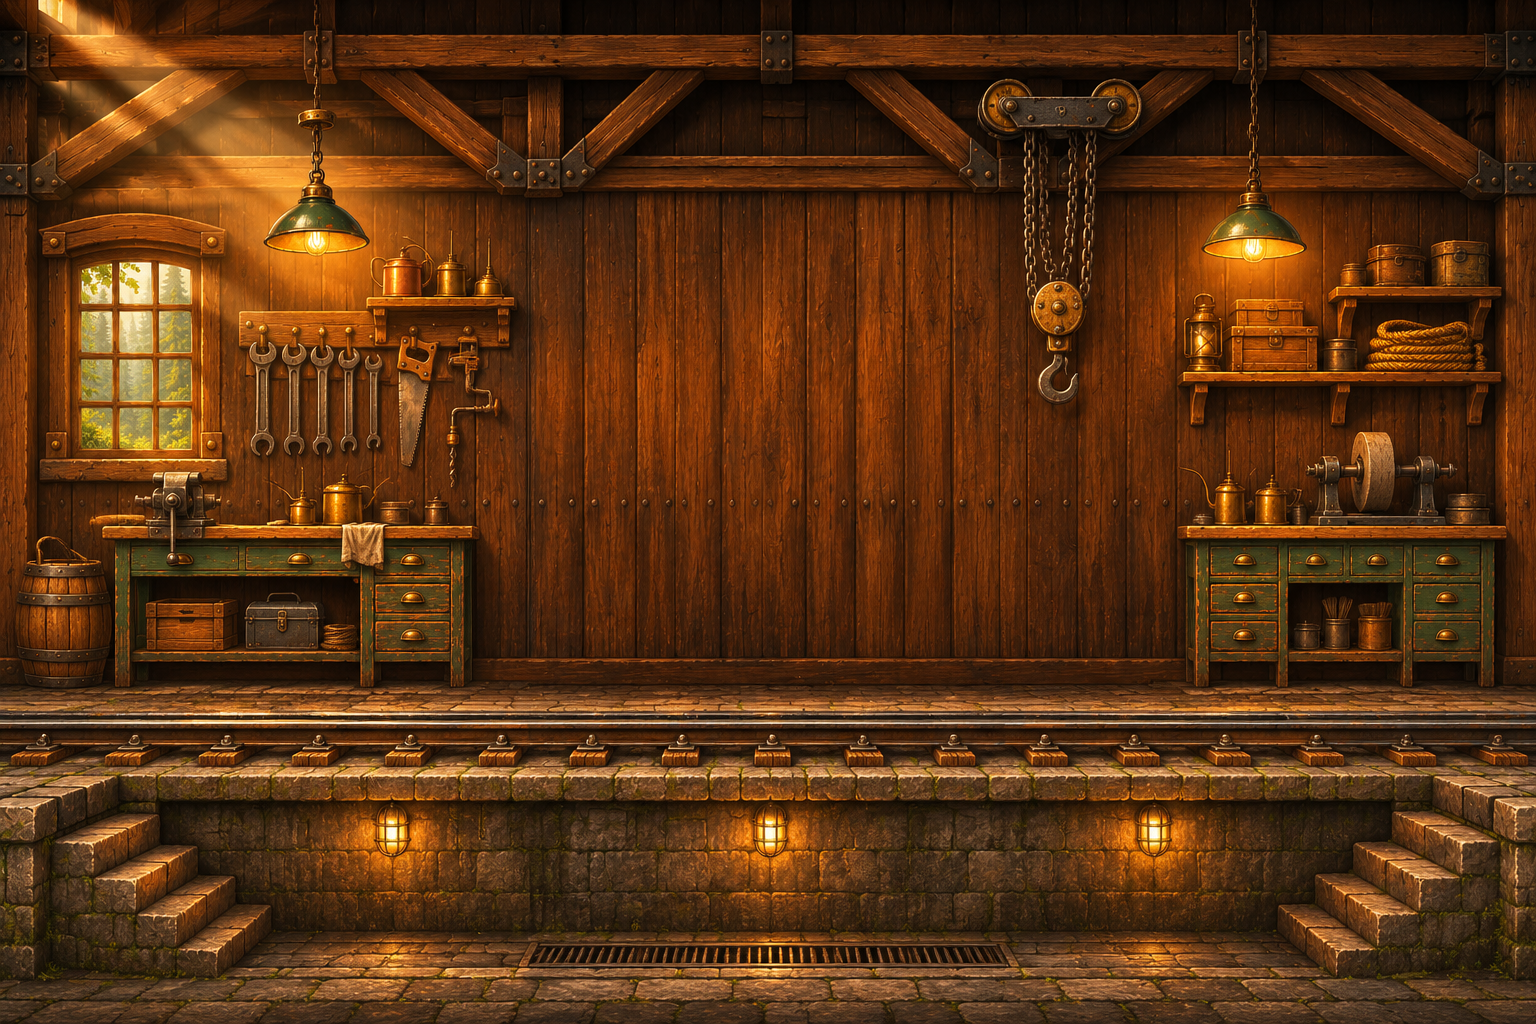
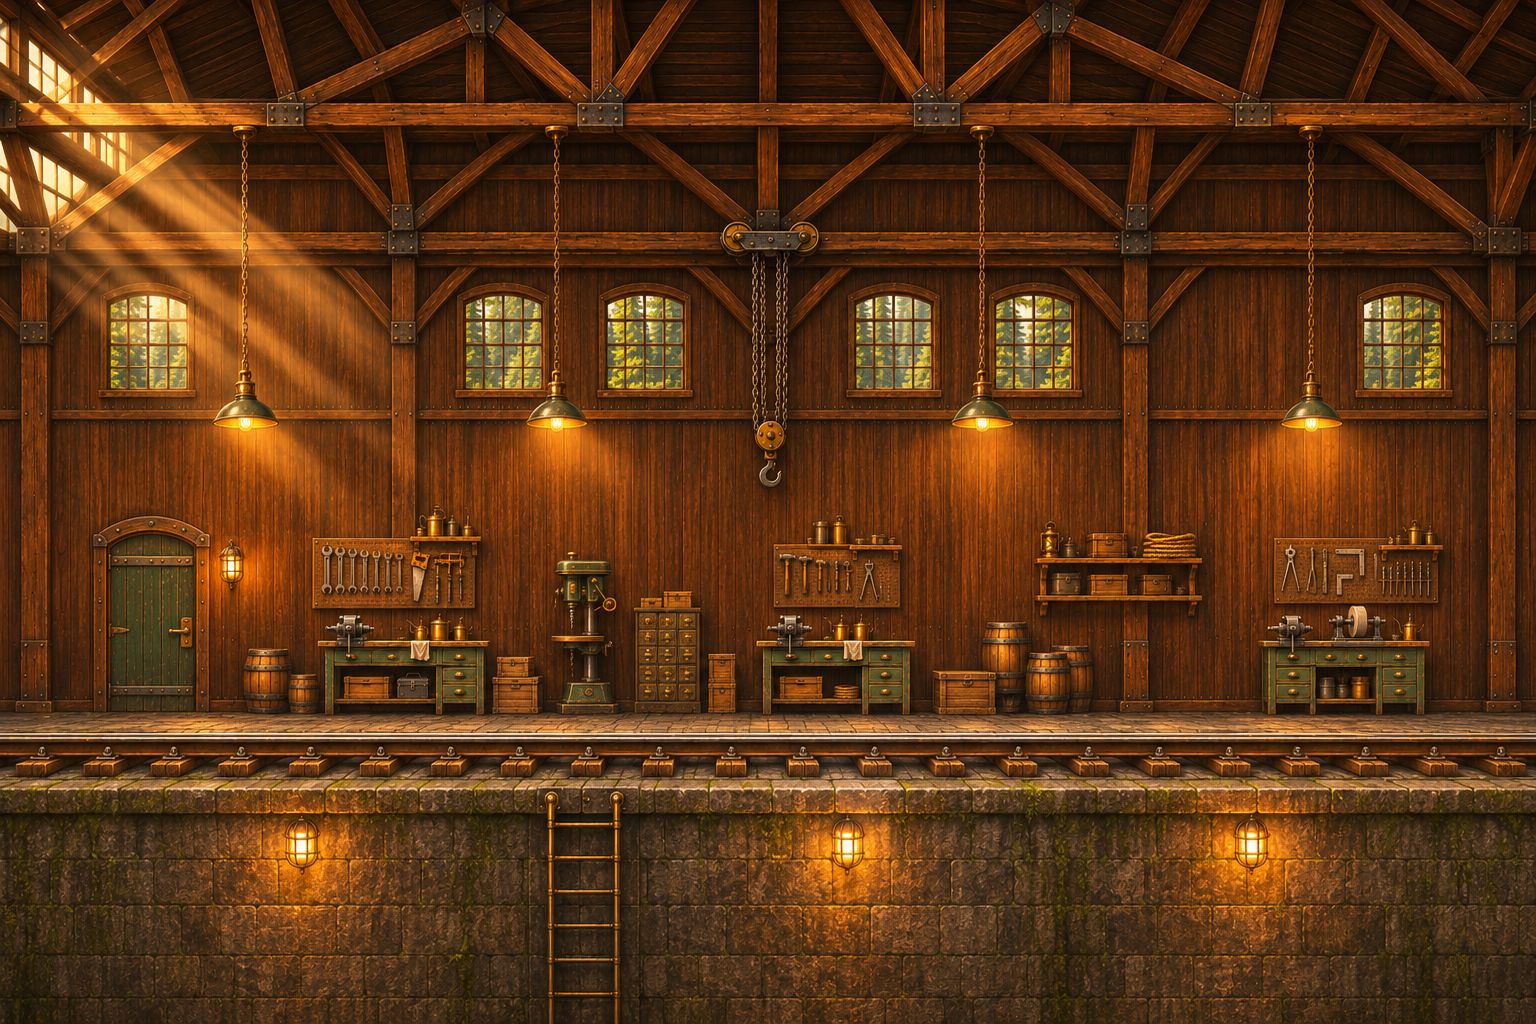
Мастерская и магазин на арте П25 в масштабе поезда (картинка 17 м, верстак 1,8 м, рельсы на 73,5%)

diff --git a/tools/art_sources/ART_QUEUE.md b/tools/art_sources/ART_QUEUE.md
@@ -44,5 +44,5 @@ Never draw letters, numbers or readable text on the images. Never draw the card 
 | P22 | Result screen of a trip: an empty waybill on a board, two stamp prints (on time / late), coins (small stack, big pile with a bag), a 3x3 sheet of small medals, a narrow evening platform banner; no letters | DONE (accepted 14.11; connected: the result screen, assets/art_result/) | tools/art_sources/briefs/P22_result_screen/TASK_FOR_GPT.md | tools/art_sources/inbox/P22_result_screen/ |
 | P23 | Junction yard «Узловая Лесная» (owner's concept): the yard by day and by evening in the same layout (Depot, Workshop, Shop, Casino with blank signs, a straight empty track across), the workshop interior with a pit, the shop interior with a display track, a 2x2 sheet of place icons; no letters, no trains | DONE (accepted 14.11; connecting on the branch uzlovaya) | tools/art_sources/briefs/P23_uzlovaya/TASK_FOR_GPT.md | tools/art_sources/inbox/P23_uzlovaya/ |
 | P24 | Landing gear of the rail zeppelin (owner: wheels a little like an airplane's, with a soft shock-absorber animation): a 2x2 sheet: the wheel, the strut cylinder, the piston with the fork, the torque link | DONE (accepted 15.11; connected: the gear of the zeppelin) | tools/art_sources/briefs/P24_zeppelin_gear/TASK_FOR_GPT.md | tools/art_sources/inbox/P24_zeppelin_gear/ |
-| P25 | REDO in the right SCALE: the workshop and the shop interiors (the P23 ones are drawn about twice too big: a saw as big as a train). The picture is 17 m wide, rails at 72% of the height, see ref_scale.png (a man 1.8 m, a door 2.1 m, a bench 1.8 m, the 3.4 m petrol car); same style and light as P23 | waiting for GPT | tools/art_sources/briefs/P25_rooms_scale/TASK_FOR_GPT.md | tools/art_sources/inbox/P25_rooms_scale/ |
+| P25 | REDO in the right SCALE: the workshop and the shop interiors (the P23 ones are drawn about twice too big: a saw as big as a train). The picture is 17 m wide, rails at 72% of the height, see ref_scale.png (a man 1.8 m, a door 2.1 m, a bench 1.8 m, the 3.4 m petrol car); same style and light as P23 | DONE (accepted 15.11; connected: the workshop and the shop of the yard) | tools/art_sources/briefs/P25_rooms_scale/TASK_FOR_GPT.md | tools/art_sources/inbox/P25_rooms_scale/ |
 | STYLE-TEST | ONE card (Wheel of Fortune) in styles 2-7 for the owner to choose a style; style 1 (painting) already exists as card_10_wheel_of_fortune.png | DONE | tools/art_sources/briefs/P10_tarot_cards/STYLE_TEST_RU.md (use the English text blocks; send each as its own image) | tools/art_sources/inbox/P10_tarot_cards/styles/ (names style_2_origami.png, style_3_symbolism.png, style_4_minimal_geometry.png, style_5_artdeco.png, style_6_engraving.png, style_7_stained_glass.png) |

diff --git a/tools/art_sources/inbox/P25_rooms_scale/NOTES_FROM_GPT.md b/tools/art_sources/inbox/P25_rooms_scale/NOTES_FROM_GPT.md
@@ -1,0 +1,8 @@
+# П25 · мастерская и магазин в масштабе состава
+
+- `workshop_interior_v2.png` — цех с тремя верстаками, верхними окнами, талью и смотровой ямой.
+- `shop_interior_v2.png` — склад с мелкими запчастями, окном во двор и прилавком справа.
+
+Оба кадра 1536×1024. Сверил наложением `ref_scale.png`. Верстаки по корпусу занимают около 150–163 пикселей (до 1,8 м без навесного инструмента). Верхнюю кромку ближнего рельса в обеих сценах выровнял к y=737 (72%). Размер инвентаря оценивал по мерке.
+
+Слабые места: у магазина под путём видна наружная каменная кладка с растительностью. В мастерской таль высоко над составом. Привязку состава в игре не проверял.
